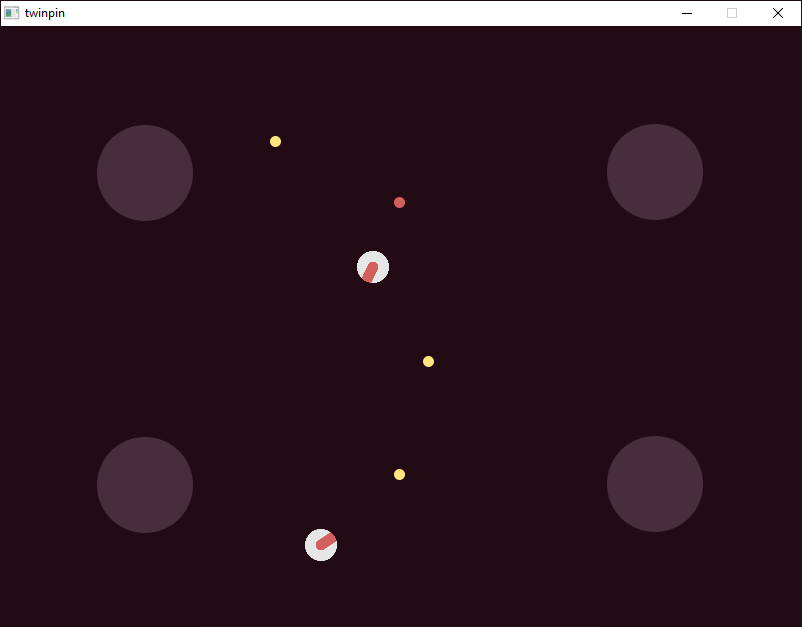
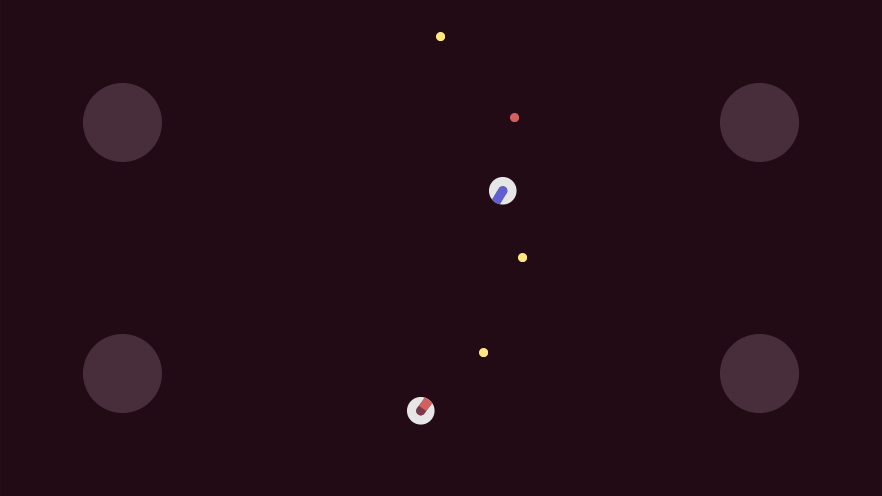
Updated screenshot for current state of the game

diff --git a/CHANGELOG.md b/CHANGELOG.md
@@ -8,7 +8,7 @@ and this project adheres to [Semantic Versioning](https://semver.org/spec/v2.0.0
 ## [Unreleased]
 ### Changed
 * Switched from using bmp images to embedded vector graphics for the textures
-* Changed to fullscreen mode
+* Changed to fullscreen mode and made the aspect ratio a litter wider
 
 ### Added
 * Limited amount of shots per second for each player
